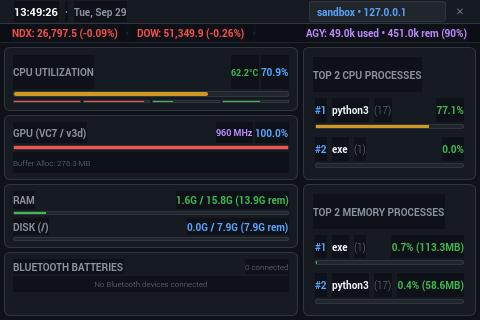
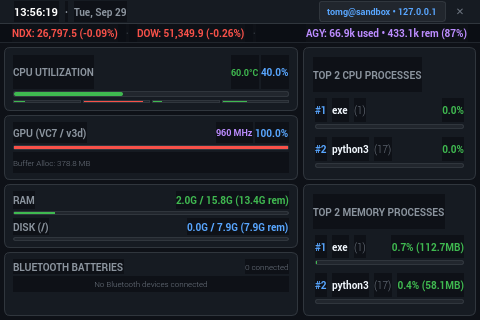
feat: display current user alongside hostname and IP address on title bar

diff --git a/ui/window.py b/ui/window.py
@@ -69,7 +69,9 @@ class MainWindow(QMainWindow):
         storage = data.get("storage", {})
         net = storage.get("network", {})
         if net and "hostname" in net and "ip" in net:
-            self.host_ip_label.setText(f"{net['hostname']} • {net['ip']}")
+            u = net.get("user", "")
+            prefix = f"{u}@" if u else ""
+            self.host_ip_label.setText(f"{prefix}{net['hostname']} • {net['ip']}")
 
     def init_ui(self):
         container = QWidget(self)
@@ -103,11 +105,13 @@ class MainWindow(QMainWindow):
         header_layout.addWidget(self.date_label)
         header_layout.addStretch()
 
-        # Hostname & IP Address in header
+        # User, Hostname & IP Address in header
         from monitor.system_info import get_network_info
         init_net = get_network_info()
-        self.host_ip_label = QLabel(f"{init_net['hostname']} • {init_net['ip']}")
-        self.host_ip_label.setStyleSheet("color: #58a6ff; font-weight: 700; font-size: 9.5px; background: #21262d; border: 1px solid #30363d; border-radius: 3px; padding: 1px 5px;")
+        u = init_net.get("user", "")
+        prefix = f"{u}@" if u else ""
+        self.host_ip_label = QLabel(f"{prefix}{init_net['hostname']} • {init_net['ip']}")
+        self.host_ip_label.setStyleSheet("color: #58a6ff; font-weight: 700; font-size: 9px; background: #21262d; border: 1px solid #30363d; border-radius: 3px; padding: 1px 5px;")
         header_layout.addWidget(self.host_ip_label)
 
         # Optional exit button for touchscreen

diff --git a/monitor/system_info.py b/monitor/system_info.py
@@ -6,7 +6,15 @@ from typing import Dict, Any
 
 
 def get_network_info() -> Dict[str, str]:
-    """Retrieve hostname and primary LAN IPv4 address."""
+    """Retrieve current user, hostname, and primary LAN IPv4 address."""
+    import getpass
+    user = os.environ.get("USER") or os.environ.get("LOGNAME")
+    if not user:
+        try:
+            user = getpass.getuser()
+        except Exception:
+            user = "user"
+
     hostname = socket.gethostname()
     ip_addr = "127.0.0.1"
 
@@ -28,7 +36,7 @@ def get_network_info() -> Dict[str, str]:
             for addr in interfaces[iface]:
                 if addr.family == socket.AF_INET and not addr.address.startswith("127."):
                     ip_addr = addr.address
-                    return {"hostname": hostname, "ip": ip_addr}
+                    return {"user": user, "hostname": hostname, "ip": ip_addr}
     except Exception:
         pass
 
@@ -41,7 +49,7 @@ def get_network_info() -> Dict[str, str]:
     except Exception:
         pass
 
-    return {"hostname": hostname, "ip": ip_addr}
+    return {"user": user, "hostname": hostname, "ip": ip_addr}
 
 
 def get_ram_metrics() -> Dict[str, Any]:
